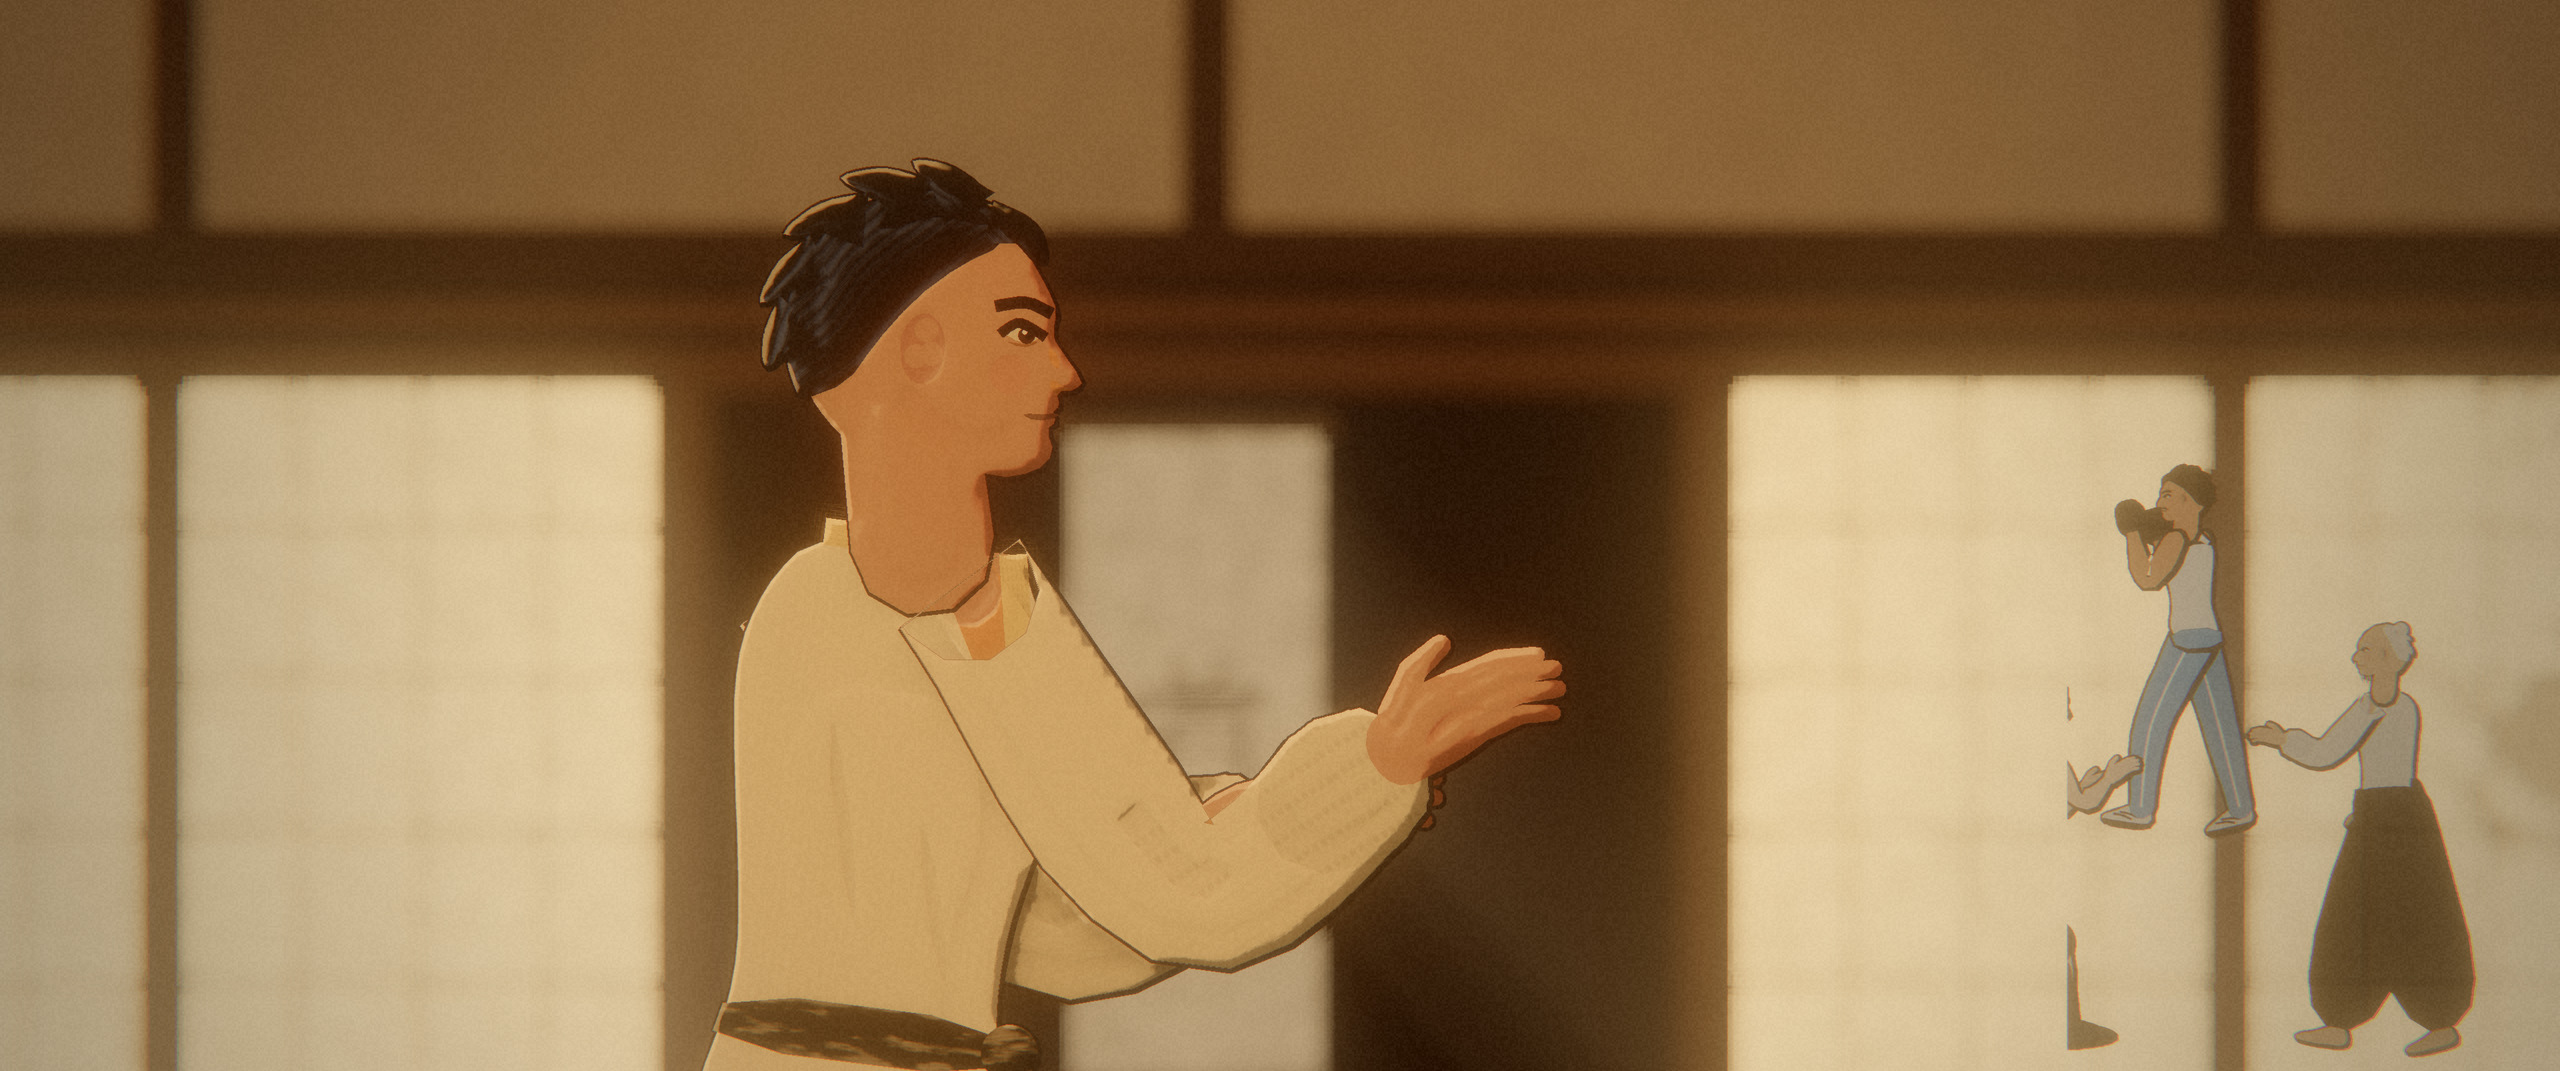
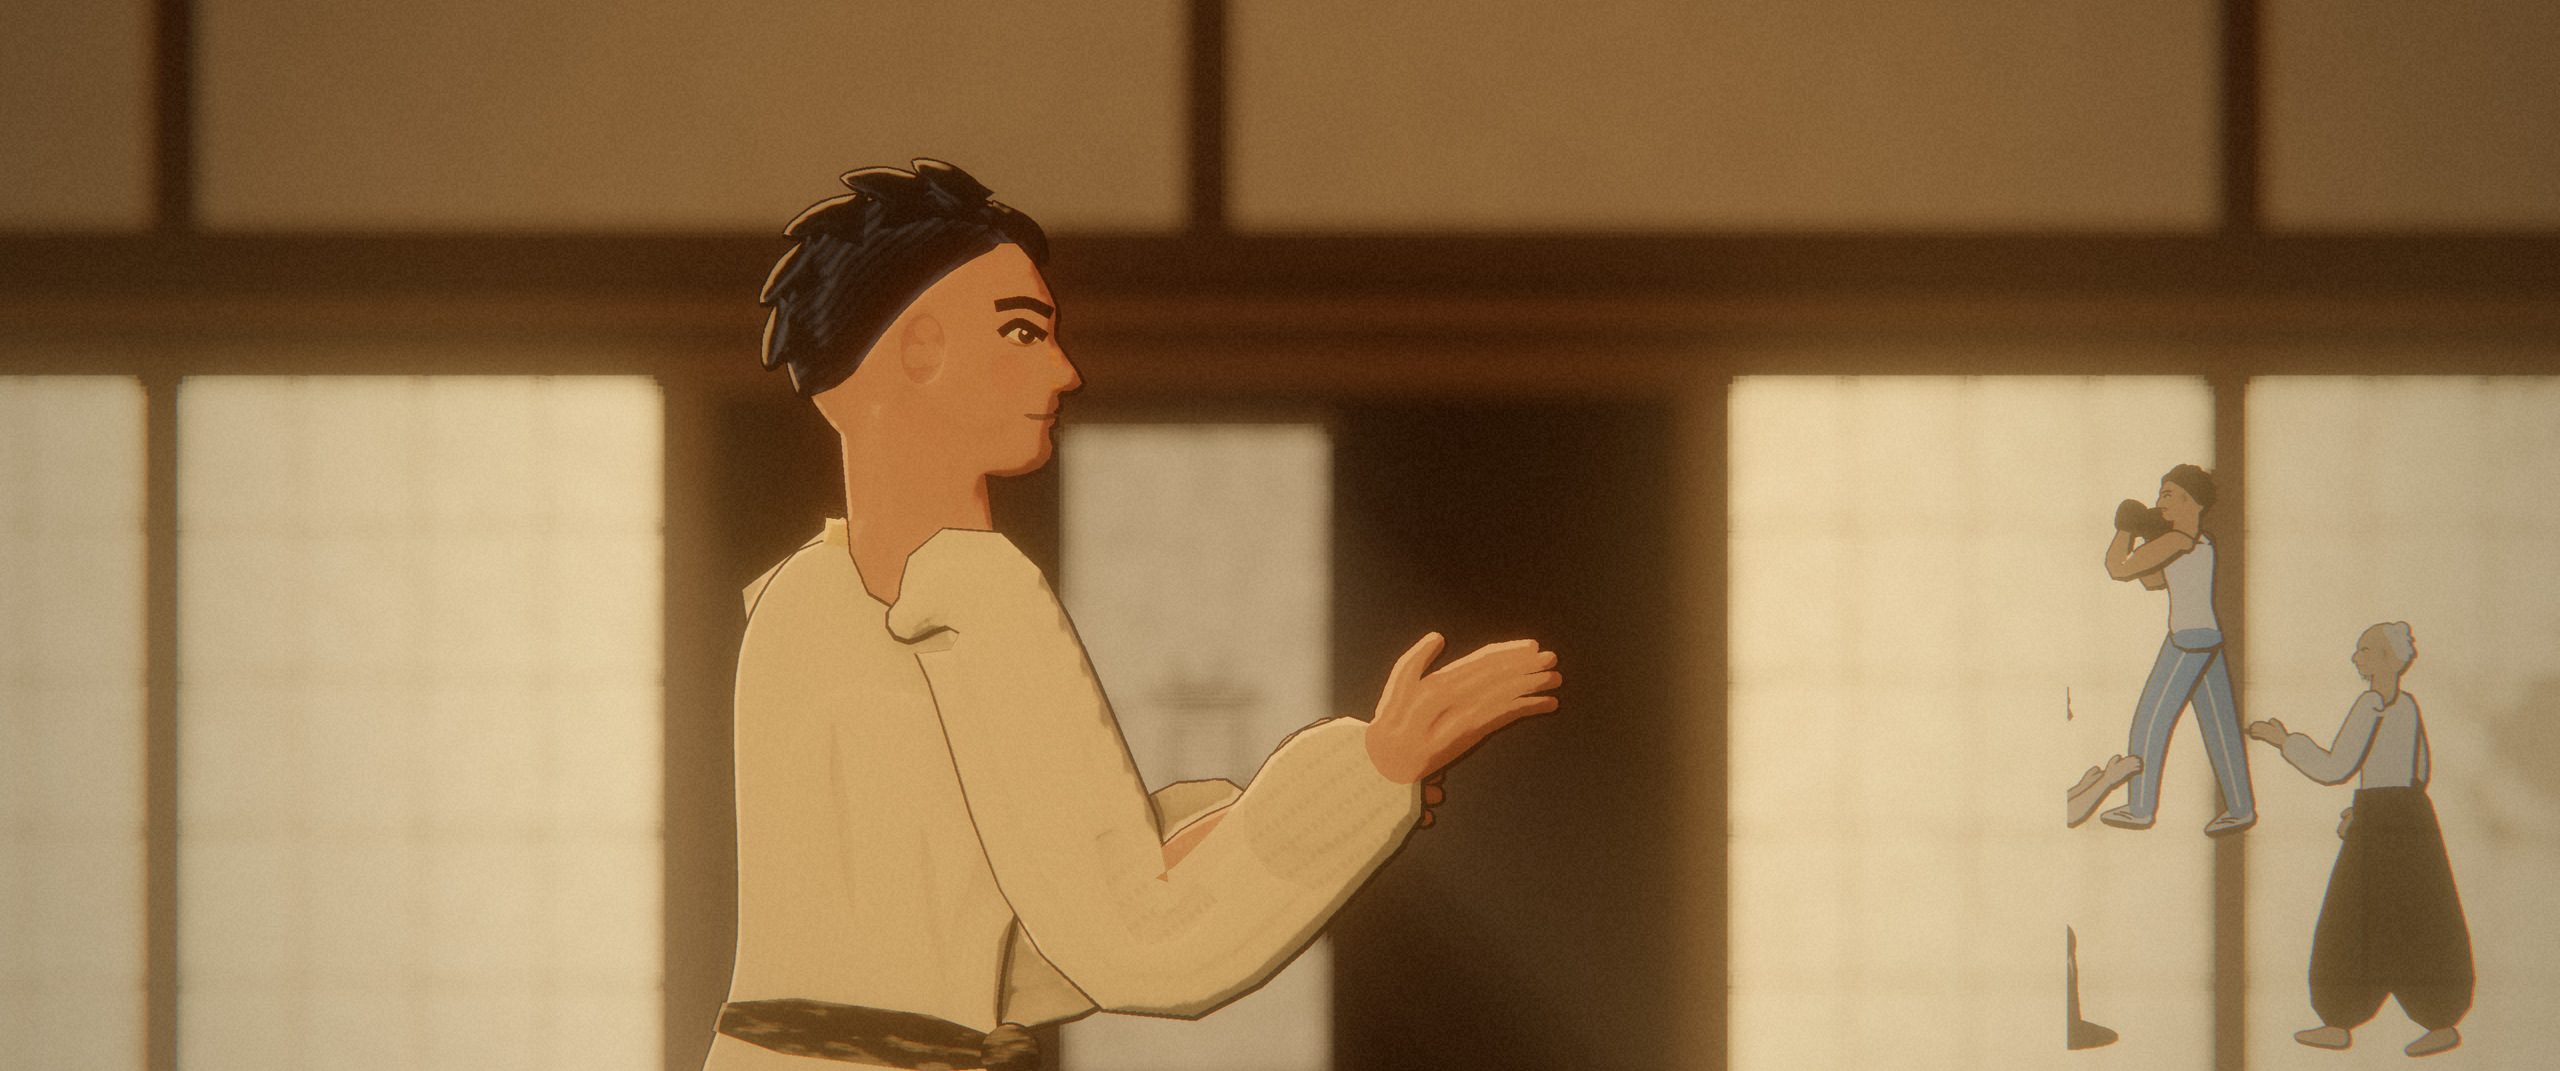
Brazos con huesos de verdad: cinemática inversa, músculos según el doblez y hombro raglán
- El esqueleto de poses colocaba codo y mano libremente (de 30 a 85 cm de
  brazo según la pose: fideos en el jab, muñones en la victoria). Ahora el
  brazo se resuelve con cinemática inversa de dos huesos de longitud fija por
  tipo de cuerpo; el codo dobla hacia donde lo pide la pose y, si la mano no
  llega, el hombro se adelanta un poco y el brazo se estira como mucho un 20 %.
- Músculos según el lado del doblez: bíceps, pliegue del codo y braquiorradial
  por dentro; tríceps, punta del codo y antebrazo que se afina por fuera. La
  manga se recoge por dentro del codo y se tensa por fuera.
- Raíz del brazo dentro del torso: la manga del gi nace como una costura raglán
  (sin bola de articulación ni tubo pegado al pecho) y el brazo de detrás ya no
  asoma por la espalda.
- Carteles regenerados en 4K.

Claude-Session: https://claude.ai/code/session_01GCEmTRu6hx8Pncz6RpNkUS

diff --git a/tatamido/render_fighter.py b/tatamido/render_fighter.py
@@ -1405,14 +1405,50 @@ def build_figure(f, pose, rig, mono=False, raw=False) -> Figure:
         px_, py_ = -fy_, fx_
         return lambda a, b: (hd[0] + fx_ * a + px_ * b, hd[1] + fy_ * a + py_ * b)
 
+    def arm_ik(sh, el0, hd0):
+        """Brazo de huesos fijos (cinemática inversa de dos huesos). El esqueleto de poses coloca codo y mano
+        libremente (de 30 a 85 cm de brazo según la pose); aquí el brazo y el antebrazo miden lo que miden,
+        el codo dobla hacia donde lo pide la pose y, si la mano no llega, el hombro se adelanta y el brazo se
+        estira un poco, como en la animación de lucha."""
+        U, F = B.get("arm", (30.0, 25.5))
+        dx, dy = hd0[0] - sh[0], hd0[1] - sh[1]
+        D = math.hypot(dx, dy) or 1e-6
+        ux, uy = dx / D, dy / D
+        reach = (U + F) * 0.985
+        if D > reach:                                  # protracción del hombro hacia el objetivo
+            pro = min(3.0, D - reach)
+            sh = (sh[0] + ux * pro, sh[1] + uy * pro)
+            D -= pro
+        k = clamp(D / reach, 1.0, 1.2)                 # y un estirón de animación
+        U, F = U * k, F * k
+        D = clamp(D, abs(U - F) + 2.0, (U + F) * 0.995)
+        hd = (sh[0] + ux * D, sh[1] + uy * D)
+        a = (U * U + D * D - F * F) / (2 * D)          # distancia del hombro al pie de la perpendicular
+        h = math.sqrt(max(0.0, U * U - a * a))
+        side_ = (el0[0] - sh[0]) * (-uy) + (el0[1] - sh[1]) * ux     # ¿a qué lado dobla el codo de la pose?
+        if abs(side_) < 1.0:
+            side_ = 1.0 if ux >= 0 else -1.0                         # recto en la pose: codo hacia abajo
+        s_ = 1.0 if side_ > 0 else -1.0
+        el = (sh[0] + ux * a - uy * h * s_, sh[1] + uy * a + ux * h * s_)
+        return sh, el, hd
+
+    def bend_sides(sh, el, hd, flex, ext):
+        """Perfiles (izquierdo, derecho) de la cinta: el flexor va por dentro del doblez y el extensor fuera."""
+        cr = (el[0] - sh[0]) * (hd[1] - el[1]) - (el[1] - sh[1]) * (hd[0] - el[0])
+        return (flex, ext) if cr >= 0 else (ext, flex)
+
     for side, g, depth in (("l", 0, 0.84), ("r", 6, 1.0)):
-        sh, el, hd = J["sh_" + side], J["el_" + side], J["hd_" + side]
+        sh, el, hd = arm_ik(J["sh_" + side], J["el_" + side], J["hd_" + side])
         fig.m("skin")
         sk = C(skin, el[0], depth)
         fore_sk = mixc(sk, (205, 80, 70), min(0.4, 0.4 * red)) if not mono else sk
         L1, L2 = dist(sh, el), dist(el, hd)
         fx_, fy_ = _norm(el[0] - sh[0], el[1] - sh[1])
-        cap = (sh[0] - fx_ * B["delt"] * 0.35, sh[1] - fy_ * B["delt"] * 0.35)     # remate del hombro, tapado por el torso
+        # raíz del brazo: hacia atrás y un poco hacia arriba, dentro del torso, para que la manga o el deltoides
+        # cubran la parte alta del pecho y la espalda como un hombro, y no nazca un tubo pegado al borde
+        # (el brazo de detrás ya queda tapado por el torso: su raíz va hacia dentro, no asoma por la espalda)
+        back_ = (-1.0, 0.12) if side == "r" else (0.55, 0.2)
+        cap = (sh[0] + back_[0] * B["delt"] * 1.05, sh[1] + back_[1] * B["delt"] * 1.05)
         if sleeve > 0:
             # antebrazo que asoma por la manga
             fig.ribbon(g, [el, _lerp2(el, hd, 0.5), hd], [(0, fo0 + fob * 0.5), (0.3, fo0 + fob * 0.6), (0.85, fo1 * 0.95), (1, fo1 * 0.9)],
@@ -1424,17 +1460,26 @@ def build_figure(f, pose, rig, mono=False, raw=False) -> Figure:
             Ls = dist(cap, sh) + L1 + dist(el, cut)
             us, ue = dist(cap, sh) / Ls, (dist(cap, sh) + L1) / Ls
             # manga de caída: hombro redondo, sin bulto en el codo, se abre hacia el puño y cuelga por debajo
-            fig.ribbon(g, [cap, sh, el, cut],
-                       [(0, B["delt"] + 0.5), (us, B["delt"] + 0.6), (ue * 0.75, up0 + 2.2), (ue, up1 + 2.8), (1, fo1 + wide + 0.6)],
-                       [(0, B["delt"] + 0.3), (us, B["delt"] + 0.4), (ue * 0.75, up0 + 1.9), (ue, up1 + 2.2), (1, fo1 + wide - 0.2)],
-                       slc, sheen=0.5, edge=True)
+            # por dentro del codo la tela se recoge; por fuera se tensa y marca la punta del codo
+            # la raíz se estrecha dentro del torso: el contorno se curva hacia el pecho como una costura raglán
+            inner = [(0, B["delt"] * 0.3), (us, B["delt"] + 0.4), (ue * 0.75, up0 + 1.9), (ue, up1 + 1.6), (1, fo1 + wide - 0.2)]
+            outer = [(0, B["delt"] * 0.3), (us, B["delt"] + 0.6), (ue * 0.75, up0 + 2.2), (ue, up1 + 2.9), (1, fo1 + wide + 0.6)]
+            kl_, kr_ = bend_sides(sh, el, hd, inner, outer)
+            fig.ribbon(g, [cap, sh, el, cut], kl_, kr_, slc, sheen=0.5, edge=True)
             # puño de la manga: refuerzo con pespuntes
             fig.m("cloth", pat="stitch")
             c0 = _lerp2(el, cut, 0.84)
             fig.ribbon(g, [c0, _lerp2(c0, cut, 0.5), cut], [(0, fo1 + wide + 0.5), (1, fo1 + wide + 0.75)],
                        [(0, fo1 + wide - 0.2), (1, fo1 + wide - 0.05)], shade(slc, 0.95), sheen=0.4)
             fig.m("cloth", True)
-            fig.line(g, [_lerp2(sh, el, 0.72), _lerp2(el, cut, 0.06), _lerp2(el, cut, 0.22)], shade(slc, 0.8), 0.9)   # pliegue del codo
+            # pliegues del codo, del lado de dentro del doblez
+            cr = (el[0] - sh[0]) * (hd[1] - el[1]) - (el[1] - sh[1]) * (hd[0] - el[0])
+            nx_, ny_ = _norm(-(el[1] - sh[1]), el[0] - sh[0])
+            sgn = 1.0 if cr >= 0 else -1.0
+            for o_, w_ in ((0.45, 0.8), (0.15, 0.6)):
+                off = (nx_ * sgn * up1 * o_, ny_ * sgn * up1 * o_)
+                fig.line(g, [(p_[0] + off[0], p_[1] + off[1]) for p_ in (_lerp2(sh, el, 0.7), el, _lerp2(el, cut, 0.25))],
+                         shade(slc, 0.8), w_)
             if top == "changshan":
                 fig.m("cloth")
                 fig.line(g, [_lerp2(el, cut, 0.9), cut], C(lk["accent"], el[0], depth), 0.5)
@@ -1442,18 +1487,25 @@ def build_figure(f, pose, rig, mono=False, raw=False) -> Figure:
             fig.m("skin")
             arm_c = fore_sk if red > 0.15 else sk
             ue = L1 / max(1e-6, L1 + L2)
-            # brazo: tríceps detrás, bíceps delante, codo estrecho, masa del antebrazo y muñeca fina
-            back = [(0.0, up0 * 1.02), (ue * 0.4, up0 * 0.98 + upb * 0.7), (ue * 0.85, up1 * 0.95), (ue, up1 * 0.82),
-                    (ue + (1 - ue) * 0.22, fo0 + fob * 0.45), (ue + (1 - ue) * 0.7, fo1 * 1.1), (1.0, fo1 * 0.85)]
-            front = [(0.0, up0 * 0.95), (ue * 0.55, up0 * 0.92 + upb), (ue * 0.88, up1 * 0.92), (ue, up1 * 0.8),
-                     (ue + (1 - ue) * 0.25, fo0 * 1.02 + fob), (ue + (1 - ue) * 0.72, fo1 * 1.08), (1.0, fo1 * 0.85)]
-            fig.ribbon(g, [sh, el, hd], back, front, arm_c, sheen=skin_sheen)
+            # flexores por dentro del doblez (bíceps, pliegue del codo, braquiorradial) y extensores por fuera
+            # (tríceps, punta del codo, antebrazo que se afina hacia la muñeca)
+            flex = [(0.0, up0 * 0.95), (ue * 0.5, up0 * 0.9 + upb), (ue * 0.9, up1 * 0.82), (ue, up1 * 0.72),
+                    (ue + (1 - ue) * 0.2, fo0 * 0.95 + fob * 0.85), (ue + (1 - ue) * 0.7, fo1 * 1.06), (1.0, fo1 * 0.86)]
+            extn = [(0.0, up0 * 1.02), (ue * 0.38, up0 * 0.98 + upb * 0.65), (ue * 0.85, up1 * 0.98), (ue, up1 * 1.06),
+                    (ue + (1 - ue) * 0.16, fo0 * 1.0 + fob * 0.45), (ue + (1 - ue) * 0.7, fo1 * 1.06), (1.0, fo1 * 0.86)]
+            kl_, kr_ = bend_sides(sh, el, hd, flex, extn)
+            fig.ribbon(g, [sh, el, hd], kl_, kr_, arm_c, sheen=skin_sheen)
             # deltoides: la cápsula del hombro que cubre la articulación
             dtip = _lerp2(sh, el, 0.45)
             fig.ribbon(g, [cap, sh, dtip], [(0, B["delt"] * 0.6), (0.35, B["delt"] * 0.92), (1, up0 * 0.55)],
                        [(0, B["delt"] * 0.55), (0.35, B["delt"] * 0.85), (1, up0 * 0.5)], arm_c, sheen=skin_sheen)
+            fig.m("skin", True)
+            cr = (el[0] - sh[0]) * (hd[1] - el[1]) - (el[1] - sh[1]) * (hd[0] - el[0])
+            nx_, ny_ = _norm(-(el[1] - sh[1]), el[0] - sh[0])
+            sgn = 1.0 if cr >= 0 else -1.0
+            fig.line(g, [(el[0] + nx_ * sgn * up1 * 0.45, el[1] + ny_ * sgn * up1 * 0.45),
+                         _lerp2(el, (el[0] + nx_ * sgn * up1 * 0.7, el[1] + ny_ * sgn * up1 * 0.7), 1.0)], shade(sk, 0.8), 0.4)   # pliegue del codo
             if "definido" in ex or lk["body"] in ("atleta", "pesado", "fibroso"):
-                fig.m("skin", True)
                 fig.line(g, [_lerp2(sh, el, 0.3), _lerp2(sh, el, 0.55), _lerp2(sh, el, 0.75)], shade(sk, 0.82), 0.5)
                 fig.line(g, [_lerp2(el, hd, 0.1), _lerp2(el, hd, 0.4)], shade(sk, 0.84), 0.45)
         if "prajied" in ex:

diff --git a/tatamido/anatomy.py b/tatamido/anatomy.py
@@ -9,36 +9,36 @@ from __future__ import annotations
 SPINE_T = [-0.1, 0.0, 0.12, 0.28, 0.45, 0.62, 0.78, 0.9, 1.0]
 
 # Perfil del torso: distancia a la columna por delante (pecho, vientre) y por detrás (espalda, glúteo).
-# Miembros: (radio inicial, radio final, abultamiento muscular).
+# Miembros: (radio inicial, radio final, abultamiento muscular). arm: longitud de brazo y antebrazo (cm).
 BODIES = {
     "atleta": dict(front=[6.0, 8.0, 10.0, 8.0, 8.5, 11.0, 10.5, 8.0, 5.5],
                    back=[10.5, 11.0, 10.0, 8.0, 9.0, 10.5, 11.5, 10.0, 6.0],
                    thigh=(8.2, 5.4, 1.7), calf=(5.0, 3.0, 1.6), upper=(4.9, 3.6, 1.2), fore=(4.1, 2.5, 1.0),
-                   neck=5.6, head=11.0, hand=4.3, delt=5.6),
+                   neck=5.6, head=11.0, hand=4.3, delt=5.6, arm=(30.0, 25.5)),
     "fibroso": dict(front=[5.5, 7.5, 9.0, 7.0, 7.5, 10.0, 9.5, 7.5, 5.0],
                     back=[9.5, 10.0, 9.0, 7.0, 8.0, 9.5, 10.5, 9.0, 5.5],
                     thigh=(7.9, 5.0, 1.8), calf=(4.9, 2.8, 1.8), upper=(4.8, 3.5, 1.4), fore=(4.1, 2.45, 1.1),
-                    neck=5.0, head=10.8, hand=4.0, delt=5.0),
+                    neck=5.0, head=10.8, hand=4.0, delt=5.0, arm=(29.5, 25.0)),
     "atleta_f": dict(front=[6.0, 8.5, 10.0, 7.5, 7.8, 10.6, 10.0, 7.5, 5.0],
                      back=[11.5, 12.0, 10.5, 7.5, 8.2, 9.5, 10.5, 9.0, 5.4],
                      thigh=(8.0, 5.0, 1.5), calf=(4.6, 2.7, 1.5), upper=(4.2, 3.1, 0.9), fore=(3.6, 2.2, 0.8),
-                     neck=4.8, head=10.5, hand=3.8, delt=4.8),
+                     neck=4.8, head=10.5, hand=3.8, delt=4.8, arm=(28.0, 24.0)),
     "menuda": dict(front=[5.5, 7.5, 8.8, 6.8, 7.0, 9.6, 9.0, 7.0, 4.7],
                    back=[10.0, 10.5, 9.0, 6.8, 7.4, 8.6, 9.6, 8.4, 5.0],
                    thigh=(7.0, 4.5, 1.2), calf=(4.2, 2.5, 1.2), upper=(3.8, 2.8, 0.7), fore=(3.3, 2.0, 0.6),
-                   neck=4.5, head=10.4, hand=3.5, delt=4.4),
+                   neck=4.5, head=10.4, hand=3.5, delt=4.4, arm=(26.5, 22.5)),
     "pesado": dict(front=[7.5, 10.0, 12.0, 12.0, 12.0, 12.5, 11.0, 9.0, 6.5],
                    back=[12.0, 12.0, 11.5, 10.5, 11.0, 12.0, 13.0, 11.0, 7.0],
                    thigh=(9.6, 6.2, 1.8), calf=(5.8, 3.4, 1.8), upper=(5.8, 4.3, 1.4), fore=(4.8, 3.0, 1.2),
-                   neck=7.0, head=11.6, hand=4.8, delt=6.6),
+                   neck=7.0, head=11.6, hand=4.8, delt=6.6, arm=(30.0, 25.5)),
     "sumo": dict(front=[10.0, 18.0, 26.0, 30.0, 28.0, 21.0, 15.0, 11.0, 8.0],
                  back=[15.0, 16.0, 17.0, 15.0, 14.0, 14.0, 14.0, 12.0, 8.0],
                  thigh=(13.0, 8.0, 1.5), calf=(7.6, 4.5, 1.6), upper=(7.6, 6.0, 1.0), fore=(6.2, 4.2, 0.8),
-                 neck=8.5, head=12.4, hand=5.4, delt=8.5),
+                 neck=8.5, head=12.4, hand=5.4, delt=8.5, arm=(30.5, 25.5)),
     "anciano": dict(front=[5.5, 7.5, 9.0, 7.5, 7.5, 8.8, 8.6, 7.5, 5.0],
                     back=[9.5, 10.0, 9.0, 7.8, 8.5, 9.8, 11.0, 10.2, 5.6],
                     thigh=(6.8, 4.4, 0.8), calf=(4.2, 2.5, 0.8), upper=(3.8, 2.9, 0.5), fore=(3.4, 2.1, 0.4),
-                    neck=4.6, head=10.6, hand=3.7, delt=4.4),
+                    neck=4.6, head=10.6, hand=3.7, delt=4.4, arm=(29.0, 24.5)),
 }
 
 # Rostro y pelo:
